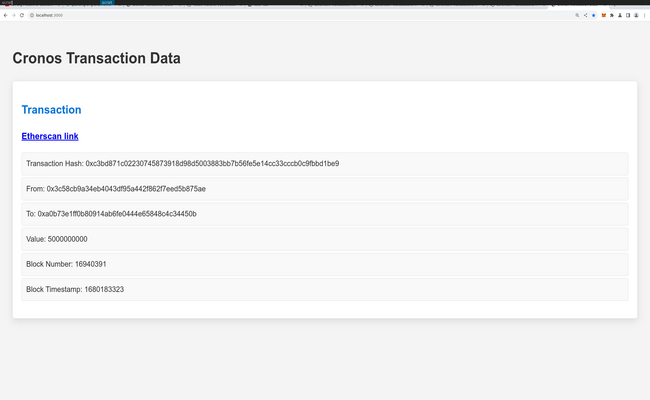
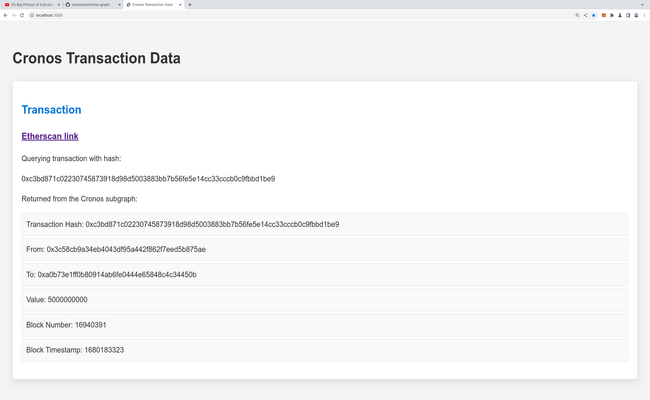
now w updates

diff --git a/README.md b/README.md
@@ -6,6 +6,8 @@ The relevant code is in server.js and public/data.html.
 
 Right now it runs a query (viewable in [graph_query.js](https://github.com/julianeon/cronos-graph/blob/main/graph_query.js)) showing the contents of one transaction.
 
+There are 2 working queries, as given in query_graph.js and alt_query.js.
+
 ![screen output](cronos_graph.png)
 
 # How to Run
